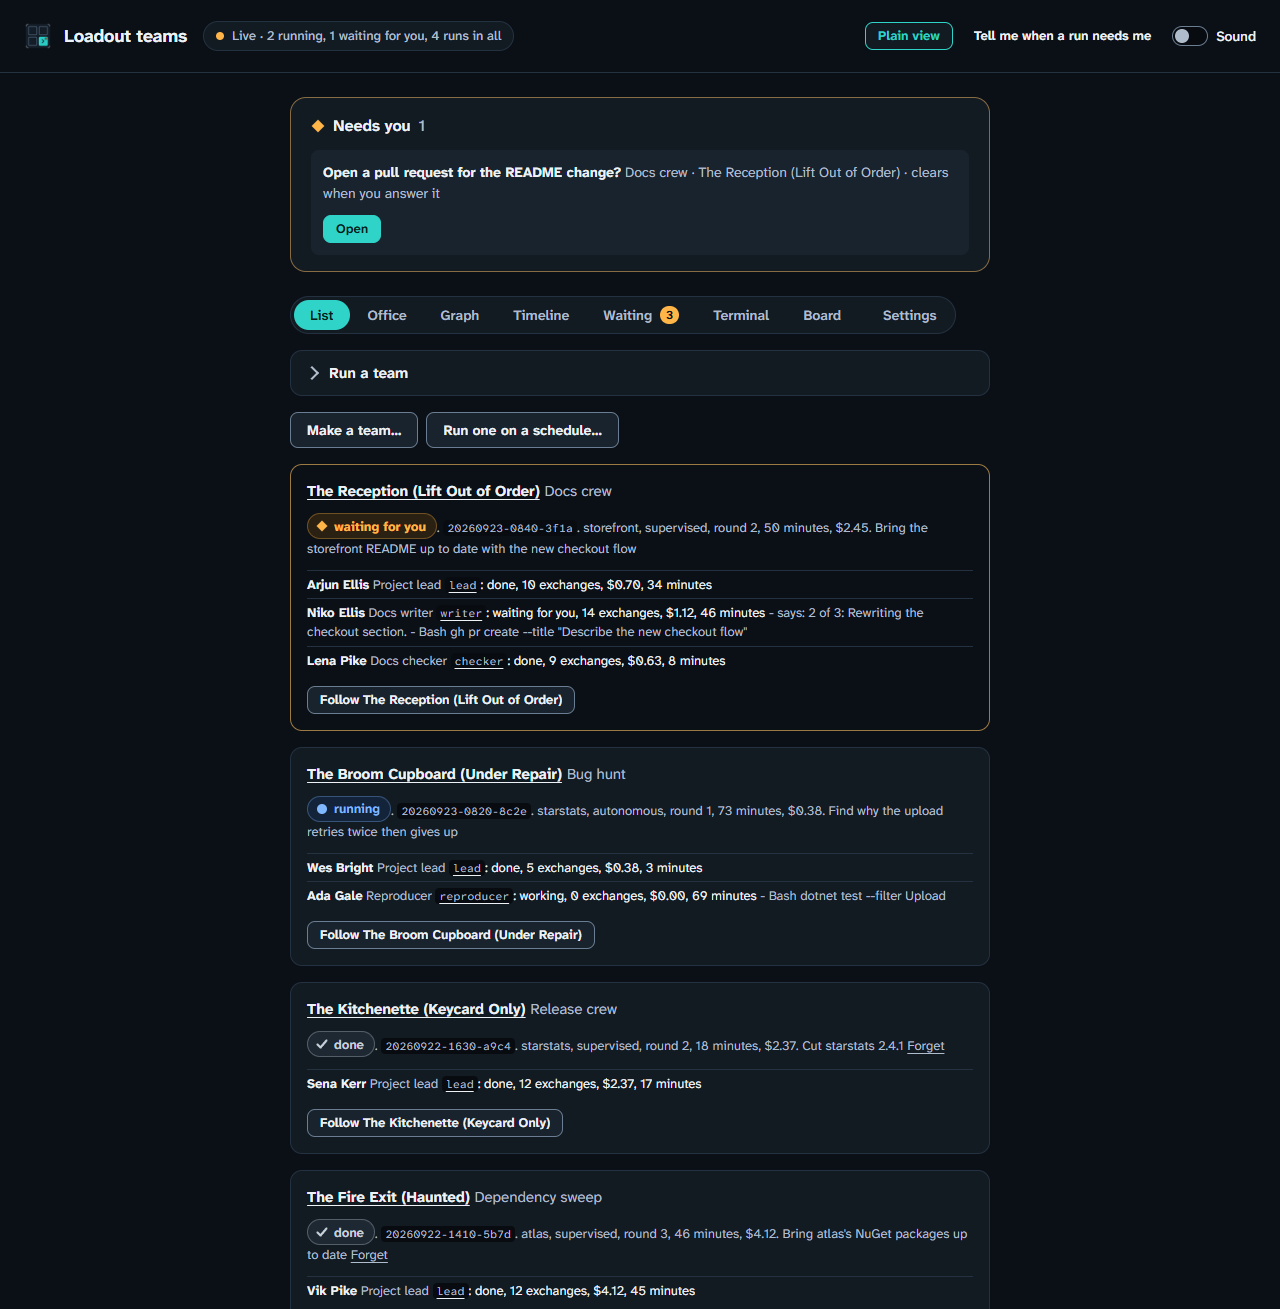
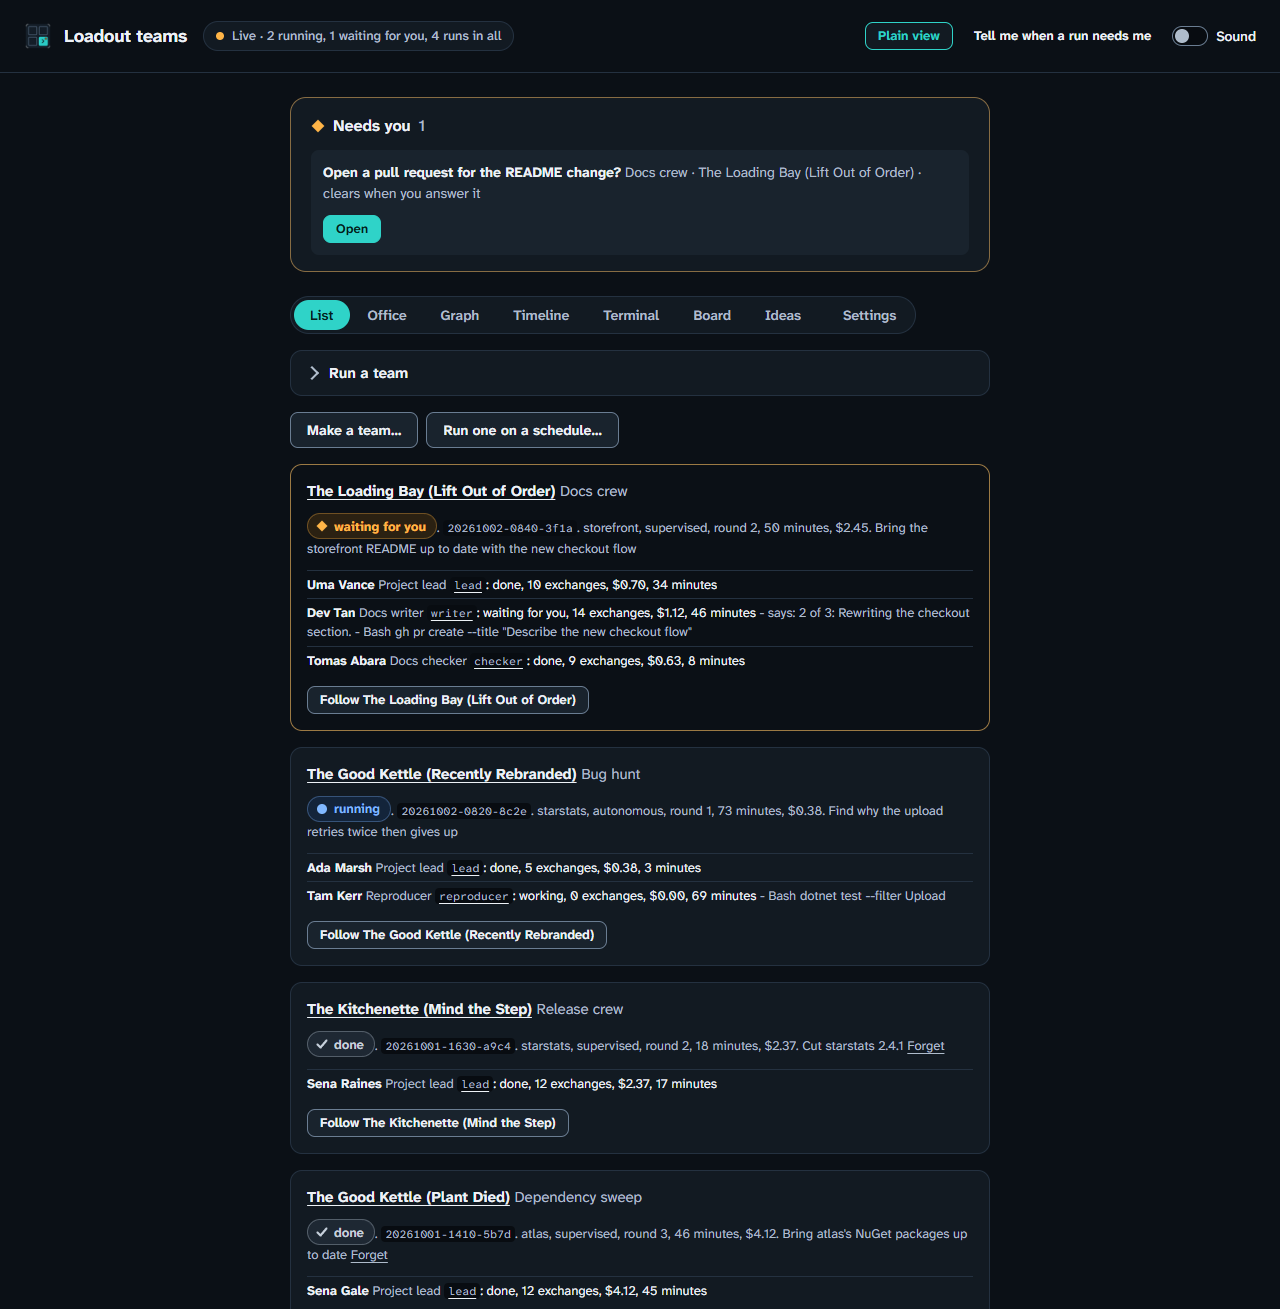
Retake the dashboard's pictures: no Waiting tab, and the office in its art
Every picture of the dashboard showed a Waiting tab that is gone, and the
office's showed one room per run with a desk for each node, which the
building replaced. All eight are taken again, at the sizes they had, from the
docs sandbox's invented runs on this build: the run list rich and plain, the
graph, the timeline, a run open in the detail pane, the start form, the
settings in the light high-contrast theme, and the office - now the building
in the Tech art Loadout ships. The office picture's description says what it
shows.

diff --git a/docs/guides/dashboard.md b/docs/guides/dashboard.md
@@ -72,7 +72,7 @@ office's lobby.
   one to leave on a spare screen. Click a floor to go in; [the office](../office.md)
   explains the rest.
 
-  ![The office screen. One room per run, two across, each with its team and state beside its name. The docs-crew run's room has a desk for each of its three nodes, each desk a card with a rounded square on it and the node's name and state written under it: done, waiting for you, and left. The one waiting for you is outlined in amber with a dot on its corner.](../images/dashboard-office.png)
+  ![The office screen. The building from its corner, in the Tech office's art: ten floors of blue glass between oak fins, LOADOUT on the roof, the floors in use lit warm, among the neighbourhood's brick and glass blocks. Along the top, the views - corner, aerial, from the street, the lobby - and the buttons to turn and zoom.](../images/dashboard-office.png)
 
 - **Graph** — who asked whom. Reach for it when something is stuck.
 
